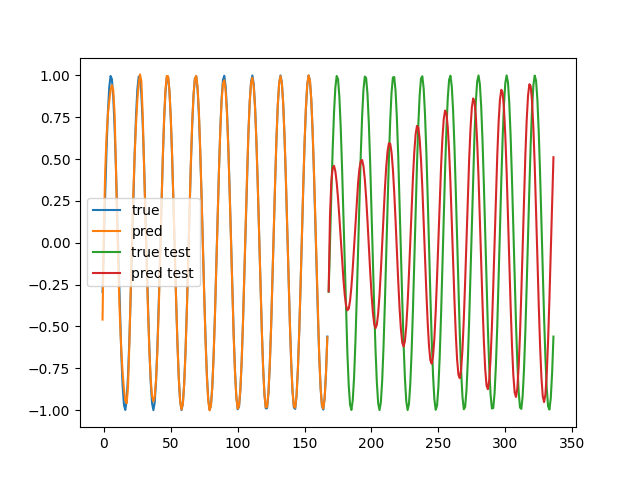
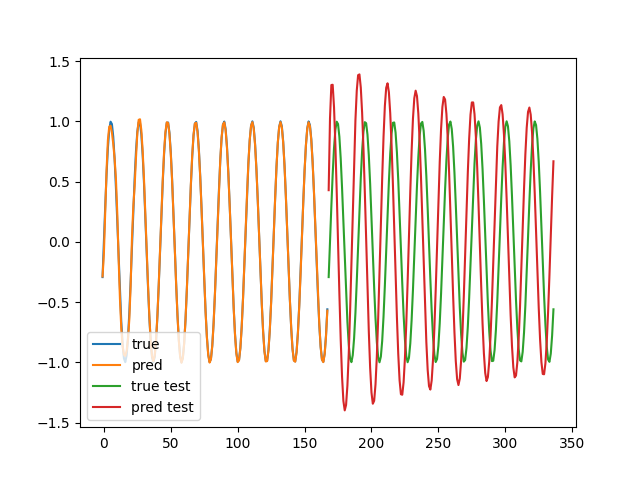
I think it works now

diff --git a/testing_code/timeseries_sine/lstm_sine.py b/testing_code/timeseries_sine/lstm_sine.py
@@ -4,6 +4,7 @@ import torch.optim as optim
 import matplotlib.pyplot as plt
 import numpy as np
 
+torch.manual_seed(0)
 device="cuda:1"
 
 class SineData(torch.utils.data.Dataset):
@@ -74,7 +75,9 @@ for i in range(50):
         loss.backward()
         return loss
     optimizer.step(closure)
+
     
+# Split    
 with torch.no_grad():
     y_pred = model(data.x).detach()[0].flatten().cpu()
     y_pred_test = model(data.x_test).detach()[0].flatten().cpu()
@@ -87,4 +90,19 @@ plt.plot(data.x_test.detach()[0].flatten().cpu(), y_pred_test, label="pred test"
 plt.legend()
 plt.savefig("split.png")
 plt.close()
+
+
+# Combined
+x_comb = torch.cat([data.x, data.x_test], 1)
+y_comb = torch.cat([data.y, data.y_test], 1)
+with torch.no_grad():
+    y_pred = model(x_comb).detach()[0].flatten().cpu()
+plt.plot(x_comb.detach()[0].flatten().cpu(), y_comb.detach()[0].flatten().cpu(), label="true")
+plt.plot(x_comb.detach()[0].flatten().cpu(), y_pred, label="pred")
+
+
+plt.legend()
+plt.savefig("combined.png")
+plt.close()
+
     
